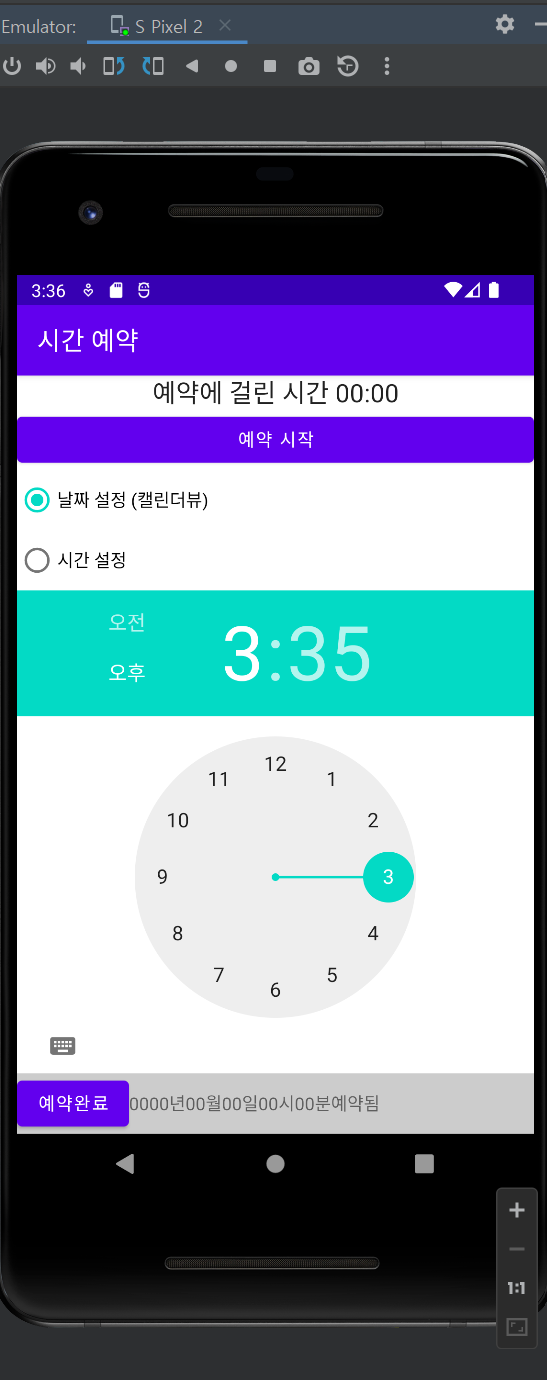
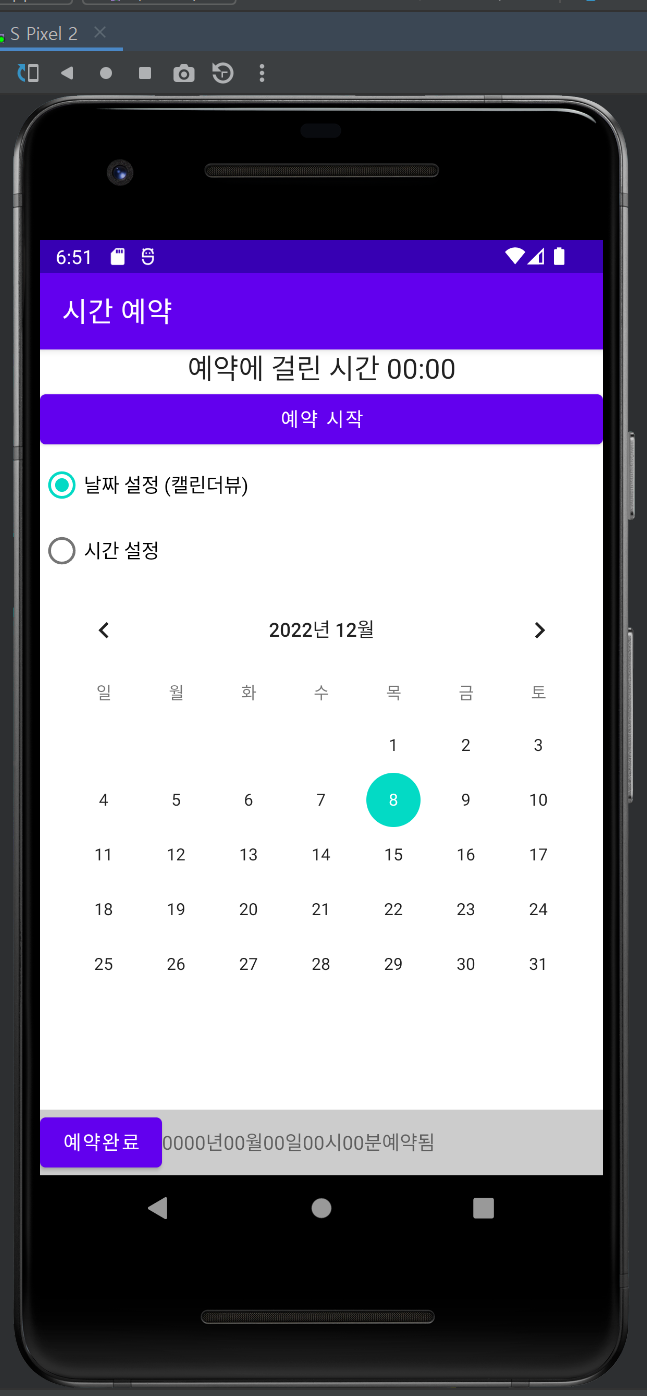
221208_DEV1

diff --git a/DateTimeScheduleApp/MainActivity.java b/DateTimeScheduleApp/MainActivity.java
@@ -13,13 +13,13 @@ import android.widget.TextView;
 import android.widget.TimePicker;
 
 public class MainActivity extends AppCompatActivity {
-    Chronometer chrono;
-    Button btnStart, btnEnd;
-    RadioButton rdoCal, rdoTime;
-    CalendarView calView;
-    TimePicker tPicker;
-    TextView tvYear, tvMonth, tvDay, tvHour, tvMinute;
-    int selectYear, selectMonth, selectDay;
+    Chronometer chrono;                                 // 타이머로 사용할 크로노미터 변수
+    Button btnStart, btnEnd;                            // <예약시작>과 <예약완료>의 변수
+    RadioButton rdoCal, rdoTime;                        // 라디오 버튼 변수 2개
+    CalendarView calView;                               // 날짜를 설정할 캘린더 뷰 변수
+    TimePicker tPicker;                                 // 시간을 설정할 타임피커 변수
+    TextView tvYear, tvMonth, tvDay, tvHour, tvMinute;  // 어플 맨아래에 출력될 연,월,일,시,분의 숫자에 해당하는 텍스트 뷰 변수 5개
+    int selectYear, selectMonth, selectDay;             // 캘린더뷰에서 선택할 연,월,일에 해당하는 변수
 
     @Override
     protected void onCreate(Bundle savedInstanceState) {
@@ -27,6 +27,7 @@ public class MainActivity extends AppCompatActivity {
         setContentView(R.layout.activity_main);
         setTitle("시간 예약");
 
+        //위젯 변수 12개에 위젯을 대입한다.
         btnStart = (Button) findViewById(R.id.btnStart);
         btnEnd = (Button) findViewById(R.id.btnEnd);
 
@@ -44,38 +45,49 @@ public class MainActivity extends AppCompatActivity {
         tvHour = (TextView) findViewById(R.id.tvHour);
         tvMinute = (TextView) findViewById(R.id.tvMinute);
 
+        //타임피커와 캘린더뷰가 보이지 않게 설정한다.
         tPicker.setVisibility(View.INVISIBLE);
         calView.setVisibility(View.INVISIBLE);
 
         rdoCal.setOnClickListener(new View.OnClickListener(){
             public void onClick(View view) {
-                tPicker.setVisibility(View.VISIBLE);
-                calView.setVisibility(View.INVISIBLE);
+                tPicker.setVisibility(View.INVISIBLE);   //날짜 설정 라디오 버튼을 클릭하면 타임 피커는 안보이게 설정
+                calView.setVisibility(View.VISIBLE);     //날짜 설정 라디오 버튼을 클릭하면 캘린더뷰는 보이게 설정
+            }
+        });
+
+        rdoTime.setOnClickListener(new View.OnClickListener(){
+            public void onClick(View view) {
+                tPicker.setVisibility(View.VISIBLE);    //시간 설정 라디오 버튼을 클릭하면 타임 피커는 보이게 설정
+                calView.setVisibility(View.INVISIBLE);  //시간 설정 라디오 버튼을 클릭하면 캘린더뷰는 안보이게 설정
             }
         });
 
         btnStart.setOnClickListener(new View.OnClickListener(){
             public void onClick(View view) {
-                chrono.setBase(SystemClock.elapsedRealtime());
-                chrono.start();
-                chrono.setTextColor(Color.RED);
+                chrono.setBase(SystemClock.elapsedRealtime());     //크로노미터를 0으로 초기화한다. <예약 시작>을 클릭할 때마다 초기화된다.
+                chrono.start();                                    //크로노미터를 시작한다.
+                chrono.setTextColor(Color.RED);                    //타이머가 시작되면 글자를 빨간색으로 설정 
             }
         });
 
         btnEnd.setOnClickListener(new View.OnClickListener() {
             public void onClick(View view) {
-                chrono.stop();
-                chrono.setTextColor(Color.BLUE);
+                chrono.stop();                                    //크로노미터를 정지한다.
+                chrono.setTextColor(Color.BLUE);                  //타이머가 시작되면 글자를 파란색으로 설정
 
+                //캘린더뷰에서 선택한 연,월,일에 해당하는 텍스트뷰에 채운다.
                 tvYear.setText(Integer.toString(selectYear));
                 tvMonth.setText(Integer.toString(selectMonth));
                 tvDay.setText(Integer.toString(selectDay));
 
+                //타임피커에서 설정한 시간과 분을 구하여 해당하는 텍스트 뷰에 채운다.
                 tvHour.setText(Integer.toString(tPicker.getCurrentHour()));
                 tvMinute.setText(Integer.toString(tPicker.getCurrentMinute()));
             }
         });
 
+        // 캘린더뷰를 클릭하면 선택한 연, 월, 일이 전역변수에 대입된다. 월은 0부터 시작하므로 1을 더해준다.
         calView.setOnDateChangeListener(new CalendarView.OnDateChangeListener() {
             @Override
             public void onSelectedDayChange(CalendarView view, int year, int month, int dayOfMonth) {

diff --git a/DateTimeScheduleApp/README.md b/DateTimeScheduleApp/README.md
@@ -43,15 +43,17 @@
 ## 실행 결과 
 <br></br>
 
-### 첫 화면 설정 및 라디오 버튼 선택시 뜨는 화면
+### 첫 화면 설정 및 날짜 설정 버튼, 시간 설정 버튼 선택시 뜨는 화면
 <br></br>
 <img src="img/img1.png" width="200" height="500">
-<img src="img/img2.png" width="200" height="500">
+<img src="img/img2.png" width="220" height="500">
+<img src="img/img3.png" width="210" height="500">
+
 <br></br>
 
 ### 예약 시작 누른 후, 예약 완료 후 화면 
 #### 예약에 걸린 시간이 상단에 뜨고 하단 텍스트 뷰에 예약된 시간이 입력된다. 
 <br></br>
-<img src="img/img3.png" width="200" height="500">
-
+<img src="img/img4-1.png" width="220" height="500">
+<img src="img/img5.png" width="220" height="500">
 
